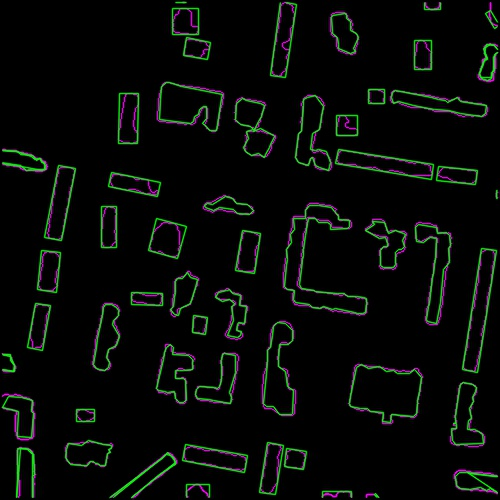
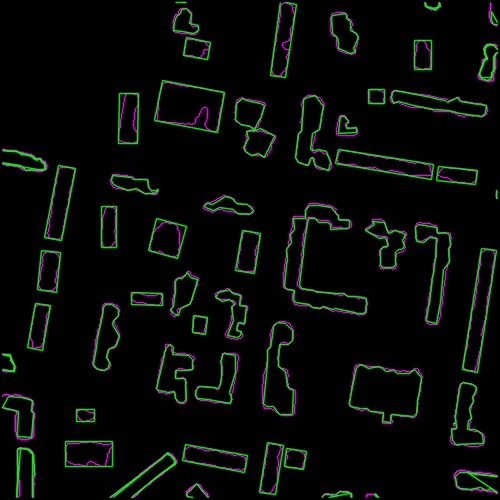
fixes

diff --git a/grid.cpp b/grid.cpp
@@ -232,23 +232,23 @@ vector<Point> processingGribovAlgorithm(
         currentAuxIndex = prevCoord.second;
     }
 
-    // drawLines(rotatedContourImg, rightContour, myPink);
-
-    // vector<Point> rightRotatedContour = rotateContour(rightContour, -rotationAngle);
     vector<Point> rightRotatedContour = rotateContourWithCentroid(rightContour, -rotationAngle, initCentroid);
 
-//    out << rightRotatedContour.size() << endl;
-//
-//    for (Point point: rightRotatedContour) {
-//        out << point.x << " " << point.y << endl;
-//    }
-
-//    drawLines(rotatedContourImg, rightRotatedContour, myPink);
-//    showImg(rotatedContourImg, "rotated");
-//    imwrite(outputPath, rotatedContourImg);
     return rightRotatedContour;
 }
 
+/*!
+ * Алгоритм Грибова
+ * @param img - изображение (вообще-то не используется)
+ * @param contour - контур
+ * @param dpEps - аргумент для Дугласа-Пекера
+ * @param gridStartX - координата x начала сетки
+ * @param gridStartY - координата y начала сетки
+ * @param gridIntervalX - расстояние между точками по x
+ * @param gridIntervalY - расстояние между точками по y
+ * @param prevPointsCount - количество предыдущих точек
+ * @return векторизованные контуры
+ */
 vector<Point> processingGribovAlgorithm2(
         Mat img,
         vector<Point> contour,
@@ -262,57 +262,39 @@ vector<Point> processingGribovAlgorithm2(
     vector<Point> dpContour;
     approxPolyDP(contour, dpContour, dpEps, true);
 
-//    Mat tryImg = Mat::zeros(img.size(), CV_8UC3);
-//    drawLines(tryImg, contour, myPink);
-//    drawLines(tryImg, dpContour, myGreen);
-//    showImg(tryImg, "Closed");
-//
-//    vector<Point> dpContour2;
-//    approxPolyDP(contour, dpContour2, dpEps, false);
-//
-//    Mat tryImg2 = Mat::zeros(img.size(), CV_8UC3);
-//    drawLines(tryImg2, contour, myPink);
-//    drawLines(tryImg2, dpContour2, myGreen);
-//    showImg(tryImg2, "Open");
-
-//    Mat gridImg = Mat::zeros(img.size(), CV_8UC3);
-//     Mat rotatedContourImg = Mat::zeros(img.size(), CV_8UC3);
-//
-//    drawLines(rotatedContourImg, contour, myBlue);
-//    showImg(rotatedContourImg, "contour");
-//    drawLines(rotatedContourImg, dpContour, myGreen);
-//
-//    showImg(rotatedContourImg, "DP");
-
-
+    // угол поворота
     double rotationAngle = getRotationAngleInDeg(dpContour);
+    // центроид
     Point initCentroid = getCentroidPoint(dpContour);
+    // повернутый контур
     vector<Point> rotatedContour = rotateContour(dpContour, rotationAngle);
 
-    // drawLines(rotatedContourImg, rotatedContour, myRed);
-
+    // словарь вспомогательных точек для точек контура
     map<Point, vector<Point>, comparePoints> auxilaryPoints;
 
+    // находим для всех точек вспомогательные точки
     for (const Point& rotatedPoint: rotatedContour) {
         Point nearestGridPoint = getNearestGridPoint(rotatedPoint, gridStartX, gridStartY, gridIntervalX, gridIntervalY);
         vector<Point> neighborPoints = getAuxilaryGridPoints(nearestGridPoint, gridIntervalX, gridIntervalY);
         auxilaryPoints[rotatedPoint] = neighborPoints;
-        // drawPoints(rotatedContourImg, neighborPoints, myBlue);
     }
 
-    // drawPoints(rotatedContourImg, rotatedContour, Scalar(0, 255, 255));
-
+    // segments count - количество сегментов
     vector<vector<int>> sc;
+    // deviation area - площадь отклонения контуров
     vector<vector<int>> da;
     // pair int-int - номер предыдущей точки контура и номер ее вспомогательной точки
     vector<vector<pair<int, int>>> bpp;
 
     int n = rotatedContour.size();
+    // количество вспомогательных точек для каждой точки контура
     int auxCount = 9;
 
+    // находим текущие sc, da, bpp, которые добавятся в большой список
     vector<int> tempSC;
     vector<int> tempDA;
     vector<pair<int, int>> tempBPP;
+    // инициализируем первые значения нулями
     for (int i = 0; i < auxCount; i++) {
         tempSC.push_back(0);
         tempDA.push_back(0);
@@ -322,28 +304,30 @@ vector<Point> processingGribovAlgorithm2(
     da.push_back(tempDA);
     bpp.push_back(tempBPP);
 
-    //  double angleTolerance = 3;
-
+    // проходимся по всем точкам контура, начиная со первой (отсчет с нуля)
     for (int pointNum = 1; pointNum < n; pointNum++) {
-        // int pointNumMod = pointNum % n; //
         Point currentPoint = rotatedContour[pointNum];
-        // Point currentPoint = rotatedContour[pointNumMod];
         tempSC.clear();
         tempDA.clear();
         tempBPP.clear();
+        // проходимся по всем вспомогательным точкам текущей точки контура
         for (int auxNum = 0; auxNum < auxCount; auxNum++) {
+            // переменные для нахождения лучшей точки с минимальной площадью
             double minArea = INFINITY;
             int newSC = 0;
             pair<int, int> bestPoint;
 
+            // переменные для нахождения лучшей точки с минимальной площадью, у которой угол, не кратен 45 градусам
             double minAreaNotStandard = INFINITY;
             int newSCNotStandard = 0;
             pair<int, int> bestPointNotStandard;
             double minAngleDiff = 45;
 
             Point currentAuxPoint = auxilaryPoints[currentPoint][auxNum];
+            // проходимся по предыдущим точкам контура
             for (int prevPointNum = pointNum - 1; prevPointNum >= 0 && prevPointNum > pointNum - prevPointsCount; prevPointNum--) {
                 Point prevPoint = rotatedContour[prevPointNum];
+                // проходимся по вспомогательным точкам текущей предыдущей точки контура
                 for (int prevAuxNum = 0; prevAuxNum < auxCount; prevAuxNum++) {
                     Point prevAuxPoint = auxilaryPoints[prevPoint][prevAuxNum];
                     if (prevPointNum == 0 && pointNum != 1) {
@@ -353,7 +337,9 @@ vector<Point> processingGribovAlgorithm2(
                     bool angleIsStandard = true;
                     int angleMod = 0;
                     if (prevPointNum != 0) {
+                        // находим наилучшую предыдущую точку для текущей предыдущей
                         Point prevPrevPoint = getPrevPoint(prevPointNum, prevAuxNum, rotatedContour, bpp, auxilaryPoints);
+                        // находим угол
                         double angle = getAngleBetweenSegments(prevPrevPoint, prevAuxPoint, currentAuxPoint);
                         double tempAngle = angle;
                         double normedAngle = angle - ((int)(angle / 45) * 45);
@@ -362,11 +348,14 @@ vector<Point> processingGribovAlgorithm2(
                         }
                         angleMod = (int)tempAngle % 45;
                         angleIsStandard = angleMod == 0;
+                        // если угол не стандартный и уже найденный нестандартный угол ближе к нормальному, чем текущий,
+                        // то переходим к следующей точке
                         if (!angleIsStandard && angleMod > minAngleDiff) {
                             continue;
                         }
                     }
 
+                    // строим контур, по которому будем искать площадь отклонения
                     vector<Point> newContour;
                     newContour.push_back(currentPoint);
                     for (int j = pointNum - 1; j > prevPointNum; j--){
@@ -378,21 +367,28 @@ vector<Point> processingGribovAlgorithm2(
                     newContour.push_back(currentAuxPoint);
                     double currentArea = getContourArea(newContour);
                     double allArea = currentArea + da[prevPointNum][prevAuxNum];
+                    // если угол нестандартный, то
                     if (!angleIsStandard) {
+                        // если отклонение нестандартного угла от стандартного равно текущему минимальному отклонению
                         if (angleMod == minAngleDiff) {
+                            // если площадь отклонения меньше, то текущий вариант лучше
                             if (allArea < minAreaNotStandard) {
                                 minAreaNotStandard = allArea;
                                 bestPointNotStandard = make_pair(prevPointNum, prevAuxNum);
                                 newSCNotStandard = sc[prevPointNum][prevAuxNum] + 1;
                             }
                         }
+                        // если отклонение нестандартного угла от стандартного равно меньше минимального отклонения,
+                        // то текущий вариант лучше
                         if (angleMod < minAngleDiff) {
                             minAngleDiff = angleMod;
                             minAreaNotStandard = allArea;
                             bestPointNotStandard = make_pair(prevPointNum, prevAuxNum);
                             newSCNotStandard = sc[prevPointNum][prevAuxNum] + 1;
                         }
+                        // если угол стандартный
                     } else {
+                        // если площадь отклонения меньше, выбираем текущий вариант
                         if (allArea < minArea) {
                             minArea = allArea;
                             bestPoint = make_pair(prevPointNum, prevAuxNum);
@@ -401,6 +397,7 @@ vector<Point> processingGribovAlgorithm2(
                     }
                 }
             }
+            // записываем результаты для текущей вершины
             if (newSC == 0) {
                 tempSC.push_back(newSCNotStandard);
                 tempDA.push_back(minAreaNotStandard);
@@ -429,6 +426,7 @@ vector<Point> processingGribovAlgorithm2(
     vector<int> minAuxIndex;
     vector<int> almostMinIndex;
 
+    // находим лучше вспомогательные точки последней вершины по количеству сегментов
     for (int i = 0; i < auxCount; i++) {
         int currentSC = sc[lastIndex][i];
         if (currentSC <= minSC) {
@@ -457,6 +455,7 @@ vector<Point> processingGribovAlgorithm2(
 
     int bestAuxIndex;
 
+    // находим наилучшую вспомогательную точку последней вершины по площади отклонения
     if (minAuxIndex.size() > 1) {
         double minArea = INFINITY;
         for (int i: minAuxIndex) {
@@ -472,9 +471,11 @@ vector<Point> processingGribovAlgorithm2(
 
     vector<Point> rightContour;
 
+    // берем лучшую конечную точку
     int currentPointIndex = lastIndex;
     int currentAuxIndex = bestAuxIndex;
 
+    // составляем новый контур с конца
     while (true) {
         Point currentPoint = auxilaryPoints[rotatedContour[currentPointIndex]][currentAuxIndex];
         rightContour.push_back(currentPoint);
@@ -486,20 +487,9 @@ vector<Point> processingGribovAlgorithm2(
         currentAuxIndex = prevCoord.second;
     }
 
-    // drawLines(rotatedContourImg, rightContour, myPink);
-
-    // vector<Point> rightRotatedContour = rotateContour(rightContour, -rotationAngle);
+    // разворачиваем контур обратно
     vector<Point> rightRotatedContour = rotateContourWithCentroid(rightContour, -rotationAngle, initCentroid);
 
-//    out << rightRotatedContour.size() << endl;
-//
-//    for (Point point: rightRotatedContour) {
-//        out << point.x << " " << point.y << endl;
-//    }
-
-//    drawLines(rotatedContourImg, rightRotatedContour, myPink);
-//    showImg(rotatedContourImg, "rotated");
-//    imwrite(outputPath, rotatedContourImg);
     return rightRotatedContour;
 }
 

diff --git a/main.cpp b/main.cpp
@@ -41,9 +41,6 @@ vector<vector<Point>> vectorizeImg(const Mat& img, const Mat& markedImg, int dpE
     ofstream timeOut;
     timeOut.open(timePath, ofstream::out);
 
-    // от этой константы избавимся, когда перепишем определение формы области
-    int maxAreaDiff = 200;
-
     // они не сильно влияют, пусть будут дефолтными
     int gridStartX = 0;
     int gridStartY = 0;
@@ -91,7 +88,7 @@ vector<vector<Point>> vectorizeImg(const Mat& img, const Mat& markedImg, int dpE
         }
 
         // проверяем, близок ли контур по площади к площади описывающего его прямоугольника
-        if (canBeDescribedByRect(contour, maxAreaDiff)) {
+        if (canBeDescribedByRect(contour)) {
             // находим контур-прямоугольник
             vector<Point> resultContour = processingMinAreaRect(contour);
 
@@ -168,9 +165,6 @@ vector<vector<Point>> vectorizeImgWithSeveralParameters(
     ofstream timeOut;
     timeOut.open(timePath, ofstream::out);
 
-    // от этой константы избавимся, когда перепишем определение формы области
-    int maxAreaDiff = 200;
-
     // они не сильно влияют, пусть будут дефолтными
     int gridStartX = 0;
     int gridStartY = 0;
@@ -236,7 +230,7 @@ vector<vector<Point>> vectorizeImgWithSeveralParameters(
                     }
 
                     // проверяем, близок ли контур по площади к площади описывающего его прямоугольника
-                    if (canBeDescribedByRect(contour, maxAreaDiff)) {
+                    if (canBeDescribedByRect(contour)) {
                         // находим контур-прямоугольник
                         vector<Point> resultContour = processingMinAreaRect(contour);
 

diff --git a/experiments.cpp b/experiments.cpp
@@ -131,7 +131,7 @@ void processing() {
         drawLines(resultImg, contour, myGreen);
 
         // проверяем, близок ли контур по площади к площади описывающего его прямоугольника
-        if (canBeDescribedByRect(contour, params.maxAreaDiff)) {
+        if (canBeDescribedByRect(contour)) {
             // находим контур-прямоугольник
             vector<Point> resultContour = processingMinAreaRect(contour);
 
@@ -325,7 +325,7 @@ void iterProcessing(String dirPath, String inputImgPath, String markingImgPath) 
                     // drawLines(resultImg, contour, myGreen);
 
                     // проверяем, близок ли контур по площади к площади описывающего его прямоугольника
-                    if (canBeDescribedByRect(contour, maxAreaDiff)) {
+                    if (canBeDescribedByRect(contour)) {
                         // находим контур-прямоугольник
                         vector<Point> resultContour = processingMinAreaRect(contour);
 

diff --git a/contourUtils.cpp b/contourUtils.cpp
@@ -92,12 +92,20 @@ vector<Point> doubleContourToSingle(vector<Point> contour) {
  * @param maxDiff - максимальная разность между площадями контура и прямоугольника
  * @return true, если может описать, false - иначе
  */
-bool canBeDescribedByRect(vector<Point> contour, int maxDiff) {
+bool canBeDescribedByRectOld(vector<Point> contour, int maxDiff) {
     RotatedRect rect = minAreaRect(contour);
     double rectArea = rect.size.area();
     double contourArea = getContourArea(contour);
     double diff = abs(rectArea - contourArea);
     return diff < maxDiff;
+}
+
+bool canBeDescribedByRect(vector<Point> contour) {
+    RotatedRect rect = minAreaRect(contour);
+    double rectArea = rect.size.area();
+    double contourArea = getContourArea(contour);
+    double ratio = abs(rectArea - contourArea) / rectArea;
+    return ratio < 0.2;
 }
 
 /*!

diff --git a/contourUtils.h b/contourUtils.h
@@ -14,6 +14,7 @@ using namespace std;
 int getContourArea(vector<Point> contour);
 bool isClosedContour(vector<Point> contour);
 vector<Point> doubleContourToSingle(vector<Point> contour);
-bool canBeDescribedByRect(vector<Point> contour, int maxDiff);
+bool canBeDescribedByRectOld(vector<Point> contour, int maxDiff);
+bool canBeDescribedByRect(vector<Point> contour);
 vector<Point> processingMinAreaRect(vector<Point> contour);
 vector<Point> deleteRepeatedNeighborPoints(vector<Point> points);
